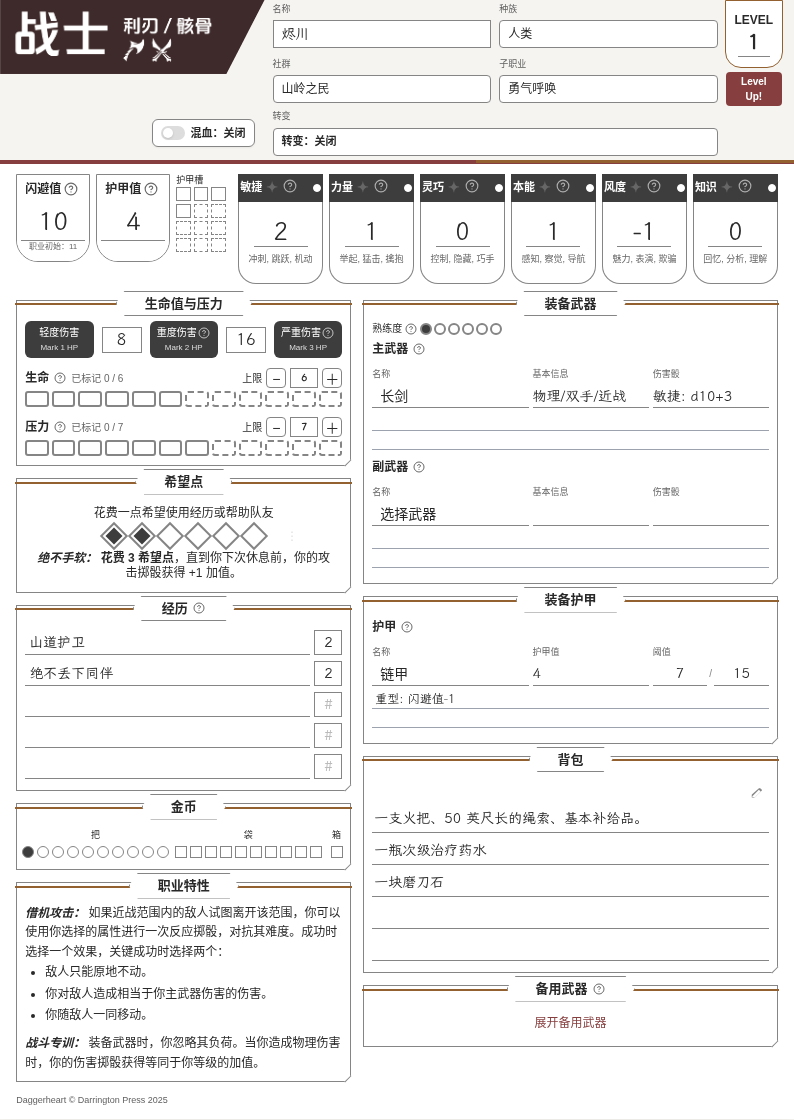
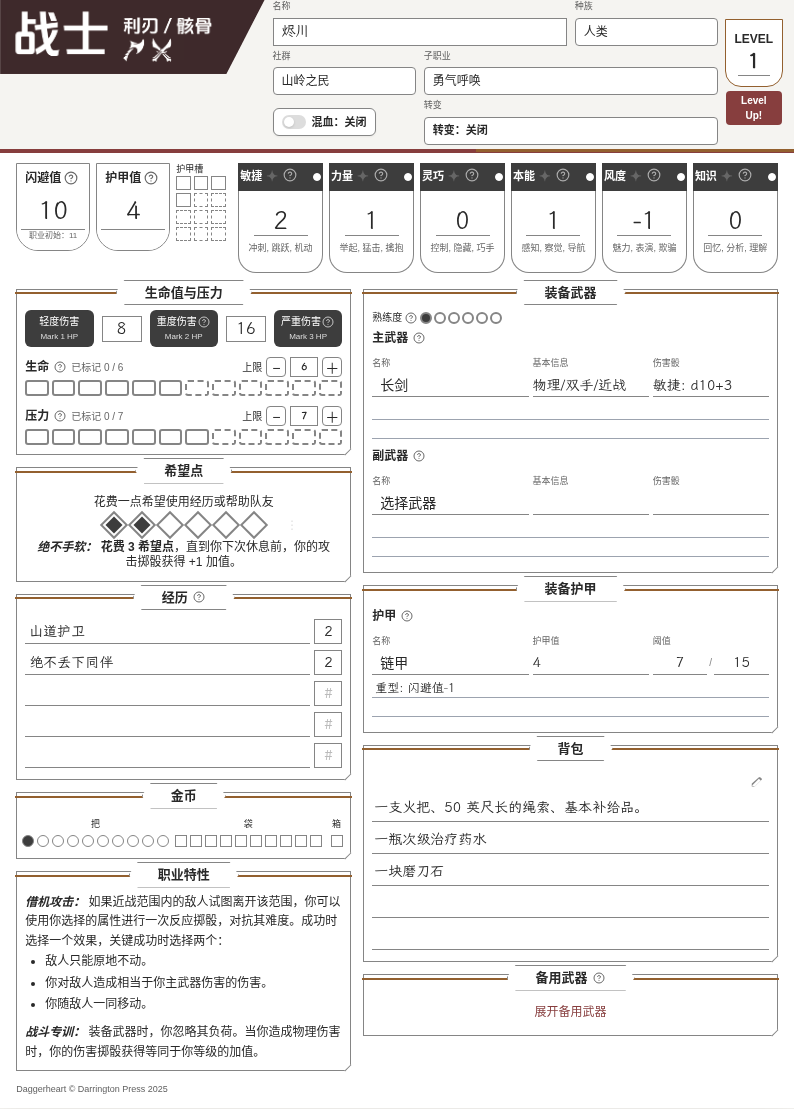
Restore the accepted identity field arrangement

diff --git a/lib/embedded-styles.ts b/lib/embedded-styles.ts
@@ -1,6 +1,6 @@
 /**
  * 自动生成的CSS内容文件
- * 生成时间: 2026-11-16T20:02:24.277Z
+ * 生成时间: 2026-11-16T20:05:53.102Z
  * 
  * 该文件包含了应用的所有CSS样式，用于HTML导出功能
  * 请勿手动编辑此文件，它会在构建时自动生成
@@ -11,7 +11,7 @@
 
 /**
  * 完整的CSS内容（包含Tailwind CSS和应用样式）
- * 大小: 174.39 KB
+ * 大小: 176.42 KB
  */
 export const embeddedStyles = `*, ::before, ::after {
   --tw-border-spacing-x: 0;
@@ -4681,6 +4681,37 @@ html {
   .native-profession-art { clip-path: polygon(0 0,100% 0,85.555789% 100%,0 100%); }
 }
 
+/* Keep the previously accepted identity-field arrangement around the PDF banner. */
+@media all {
+  .sheet-reader .native-editor .sheet-header {
+    grid-template-columns: 264.431px repeat(3,minmax(0,1fr)) 56px;
+  }
+  .native-editor .sheet-header [aria-label="职业"] { grid-area: 1 / 1 / 4 / 2; }
+  .native-editor .sheet-identity-fields > div:nth-child(2) { grid-area: 1 / 2 / 2 / 4; }
+  .native-editor .sheet-header [aria-label="种族"] { grid-area: 1 / 4 / 2 / 5; }
+  .native-editor .sheet-header [aria-label="社群"] { grid-area: 2 / 2 / 3 / 3; }
+  .native-editor .sheet-header [aria-label="子职业"] { grid-area: 2 / 3 / 3 / 5; }
+  .native-editor .sheet-identity-fields > div:nth-child(6) { grid-area: 3 / 2 / 4 / 3; padding: 0; justify-self: start; }
+  .sheet-reader .native-editor .sheet-header > [aria-label="转变"] { grid-area: 3 / 3 / 4 / 5; }
+  .sheet-reader .native-editor .sheet-level-control { grid-area: 1 / 5 / 4 / 6; }
+}
+@media screen and (max-width: 1023px) {
+  .sheet-reader .native-editor .sheet-header { grid-template-columns: minmax(0,1fr) minmax(0,1fr) 56px; }
+  .sheet-reader .native-editor .sheet-header [aria-label="职业"] { grid-area: 1 / 1 / 2 / 3; }
+  .sheet-reader .native-editor .sheet-level-control { grid-area: 1 / 3 / 2 / 4; }
+  .native-editor .sheet-identity-fields > div:nth-child(2) { grid-area: 2 / 1 / 3 / 4; }
+  .native-editor .sheet-header [aria-label="种族"] { grid-area: 3 / 1 / 4 / 4; }
+  .native-editor .sheet-header [aria-label="社群"] { grid-area: 4 / 1 / 5 / 2; }
+  .native-editor .sheet-header [aria-label="子职业"] { grid-area: 4 / 2 / 5 / 4; }
+  .native-editor .sheet-identity-fields > div:nth-child(6) { grid-area: 5 / 1 / 6 / 2; justify-self: stretch; }
+  .sheet-reader .native-editor .sheet-header > [aria-label="转变"] { grid-area: 5 / 2 / 6 / 4; }
+}
+@media screen and (max-width: 350px) {
+  .sheet-reader .native-editor .sheet-level-control { grid-area: 2 / 3 / 4 / 4; }
+  .native-editor .sheet-identity-fields > div:nth-child(2) { grid-area: 2 / 1 / 3 / 3; }
+  .native-editor .sheet-header [aria-label="种族"] { grid-area: 3 / 1 / 4 / 3; }
+}
+
 @media screen and (max-width: 1023px) {
   .equipment-modal.equipment-mobile-dialog {
     position: fixed !important;
@@ -6665,7 +6696,7 @@ export function getStylesInfo() {
     size: embeddedStyles.length,
     sizeKB: (embeddedStyles.length / 1024).toFixed(2),
     sizeMB: (embeddedStyles.length / 1024 / 1024).toFixed(2),
-    generated: '2026-11-16T20:02:24.278Z',
+    generated: '2026-11-16T20:05:53.102Z',
     compressed: false
   };
 }

diff --git a/components/layout/native-editor.css b/components/layout/native-editor.css
@@ -357,3 +357,34 @@
   /* Clip to the original PDF polygon; adjacent form labels are outside it. */
   .native-profession-art { clip-path: polygon(0 0,100% 0,85.555789% 100%,0 100%); }
 }
+
+/* Keep the previously accepted identity-field arrangement around the PDF banner. */
+@media all {
+  .sheet-reader .native-editor .sheet-header {
+    grid-template-columns: 264.431px repeat(3,minmax(0,1fr)) 56px;
+  }
+  .native-editor .sheet-header [aria-label="职业"] { grid-area: 1 / 1 / 4 / 2; }
+  .native-editor .sheet-identity-fields > div:nth-child(2) { grid-area: 1 / 2 / 2 / 4; }
+  .native-editor .sheet-header [aria-label="种族"] { grid-area: 1 / 4 / 2 / 5; }
+  .native-editor .sheet-header [aria-label="社群"] { grid-area: 2 / 2 / 3 / 3; }
+  .native-editor .sheet-header [aria-label="子职业"] { grid-area: 2 / 3 / 3 / 5; }
+  .native-editor .sheet-identity-fields > div:nth-child(6) { grid-area: 3 / 2 / 4 / 3; padding: 0; justify-self: start; }
+  .sheet-reader .native-editor .sheet-header > [aria-label="转变"] { grid-area: 3 / 3 / 4 / 5; }
+  .sheet-reader .native-editor .sheet-level-control { grid-area: 1 / 5 / 4 / 6; }
+}
+@media screen and (max-width: 1023px) {
+  .sheet-reader .native-editor .sheet-header { grid-template-columns: minmax(0,1fr) minmax(0,1fr) 56px; }
+  .sheet-reader .native-editor .sheet-header [aria-label="职业"] { grid-area: 1 / 1 / 2 / 3; }
+  .sheet-reader .native-editor .sheet-level-control { grid-area: 1 / 3 / 2 / 4; }
+  .native-editor .sheet-identity-fields > div:nth-child(2) { grid-area: 2 / 1 / 3 / 4; }
+  .native-editor .sheet-header [aria-label="种族"] { grid-area: 3 / 1 / 4 / 4; }
+  .native-editor .sheet-header [aria-label="社群"] { grid-area: 4 / 1 / 5 / 2; }
+  .native-editor .sheet-header [aria-label="子职业"] { grid-area: 4 / 2 / 5 / 4; }
+  .native-editor .sheet-identity-fields > div:nth-child(6) { grid-area: 5 / 1 / 6 / 2; justify-self: stretch; }
+  .sheet-reader .native-editor .sheet-header > [aria-label="转变"] { grid-area: 5 / 2 / 6 / 4; }
+}
+@media screen and (max-width: 350px) {
+  .sheet-reader .native-editor .sheet-level-control { grid-area: 2 / 3 / 4 / 4; }
+  .native-editor .sheet-identity-fields > div:nth-child(2) { grid-area: 2 / 1 / 3 / 3; }
+  .native-editor .sheet-header [aria-label="种族"] { grid-area: 3 / 1 / 4 / 3; }
+}

diff --git a/testing/compact-editor/README.md b/testing/compact-editor/README.md
@@ -16,3 +16,5 @@ Life and stress each keep all twelve cells on a single row. The compact form red
 - Native offline HTML/PDF still used the original two-sheet renderer with the page-two portrait and a separate card page. No browser page errors.
 
 For the same sample character at 794 px paper width, the default front page shrank from 1547 px to about 1119 px (28%), and the back from 1856 px to about 1274 px (31%). Expanded sections and longer character text naturally add height. These are Chromium measurements and viewport emulation, not real-device Safari/Android validation. The managed browser blocks file://; offline HTML was replayed without network in an opaque document.
+
+The previously accepted identity-field arrangement was restored after this update: name/ancestry on the first row; community/subclass on the second; mixed ancestry and transformation below, with the level control at the right. A 320 px-specific placement keeps the original-size banner from overlapping the level control. See identity-validation.json for the geometry checks across five viewport widths.
